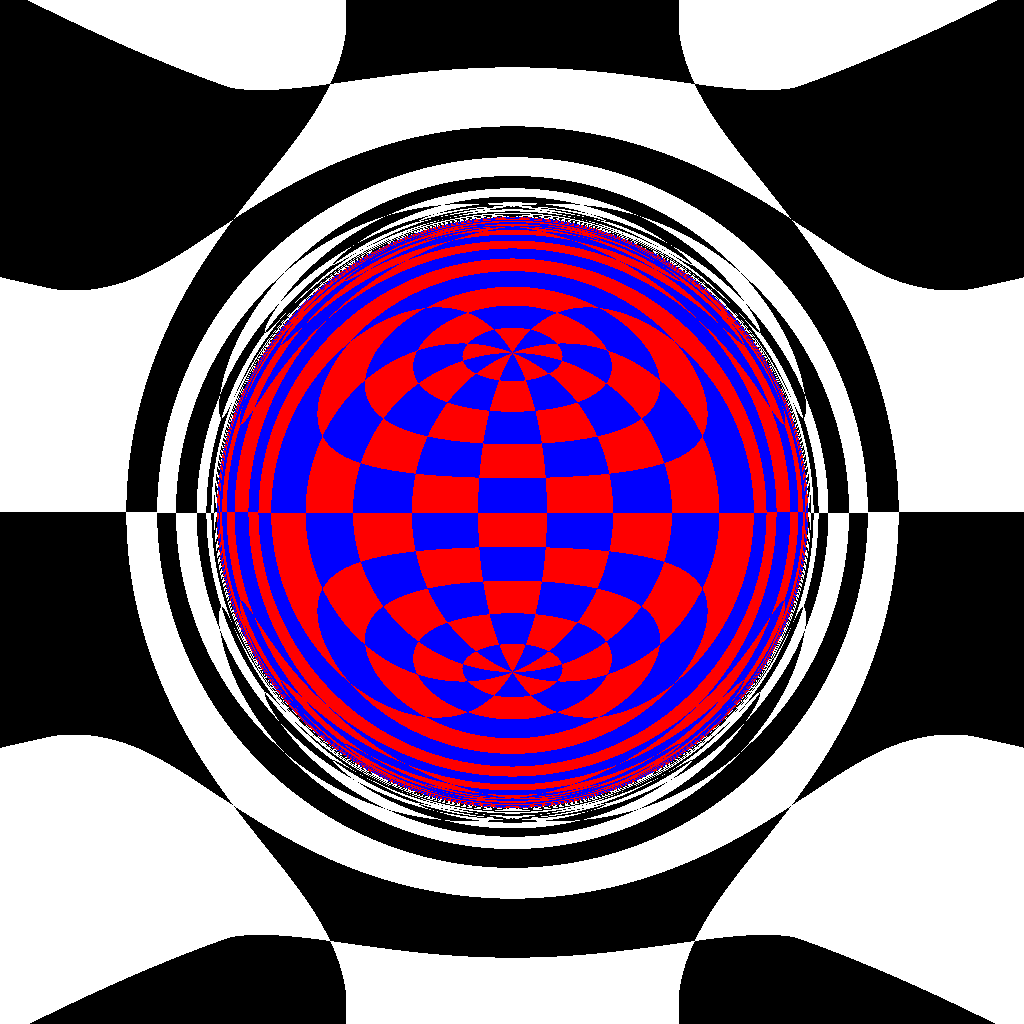
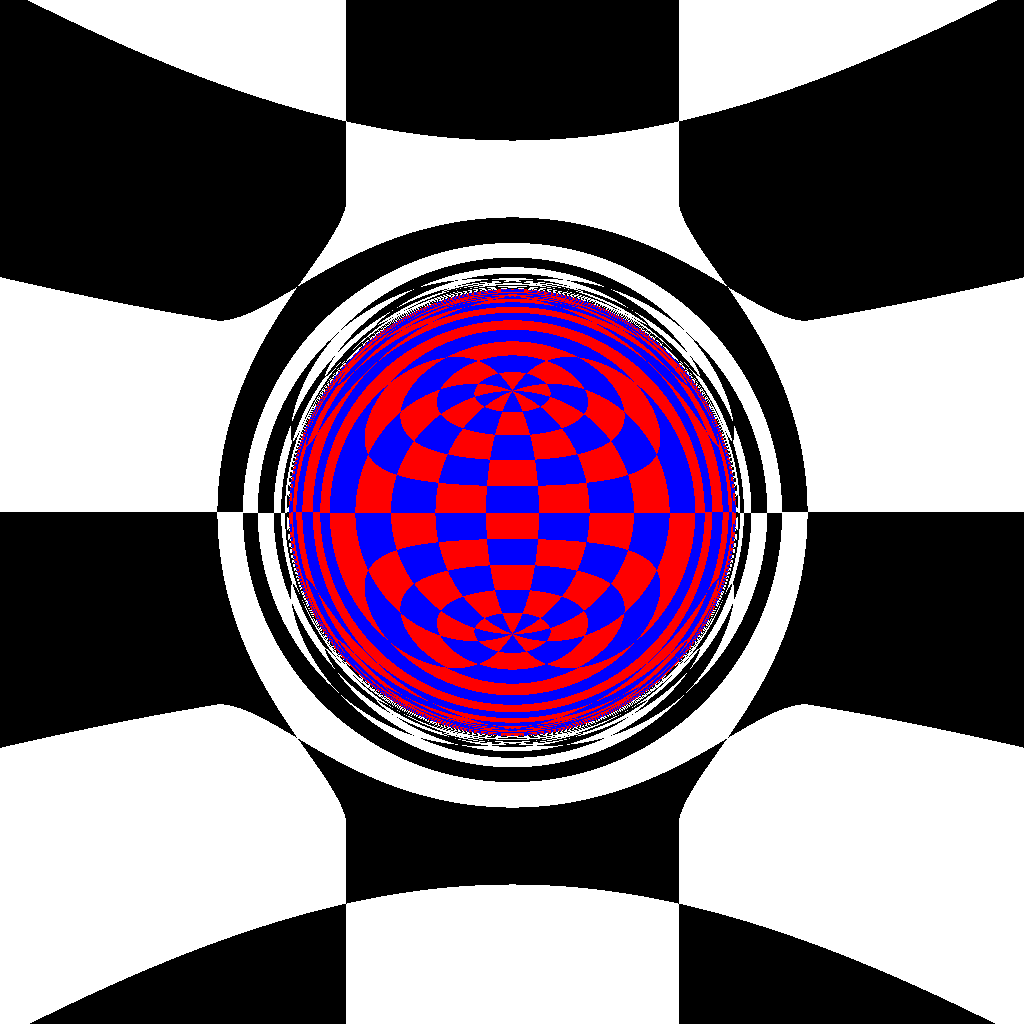
Zoomed out a bit, so you can see better. Now it only takes one minute to render.

diff --git a/programming/Main4.cpp b/programming/Main4.cpp
@@ -41,7 +41,7 @@ int main(int argc, char* argv[]){
 	Euclidean* euclidean1 = new Euclidean();
 	SurfaceOfRevolution<PortalSpace2d>* wormhole = new SurfaceOfRevolution<PortalSpace2d>();
 	por = new Compound::PointOfReference(Manifold::PointOfReferencePtr(new Euclidean::PointOfReference(euclidean0)));
-	por->move(Vector3d(0,-2,0));
+	por->move(Vector3d(0,-2.5,0));
 	SurfaceOfRevolution<PortalSpace2d>::PortalPtr wormholePortal0 = SurfaceOfRevolution<PortalSpace2d>::PortalPtr(new SurfaceOfRevolution<PortalSpace2d>::Portal(false, wormhole));
 	wormhole->addPortal(wormholePortal0);
 	SurfaceOfRevolution<PortalSpace2d>::PortalPtr wormholePortal1 = SurfaceOfRevolution<PortalSpace2d>::PortalPtr(new SurfaceOfRevolution<PortalSpace2d>::Portal(true, wormhole));
